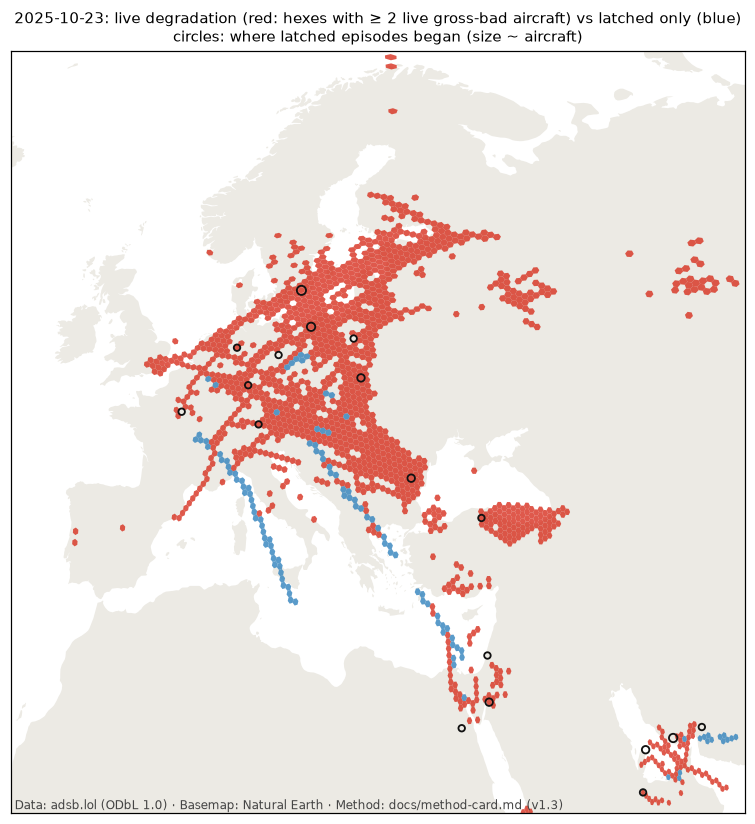
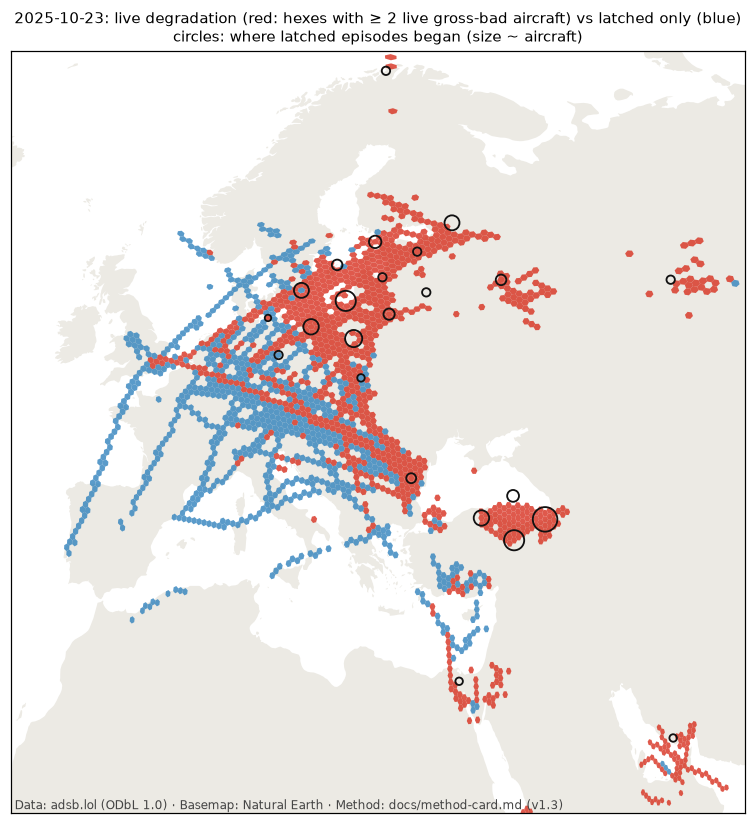
Validation: post-exposure tag (v1.4) results on all 20 days
- All 20 days now at v1.4 (12 Nov 2025 and 22 Sep 2026 reprocessed)
- Tag covers 41-55% of gross-bad aircraft-hexes over central Europe and
  50-75% over western Europe, 5-12% in Baltic and Black Sea hotspots;
  hotspot shares fall at most 1.8 points
- Nightly central-Europe bursts: 33 -> 26 events, smaller peaks, 6 quiet
  nights vs 2; only 38-47% of aircraft in the remaining bursts are tagged
- Type pattern holds over 17 days: A359 19.4x, A388 19.2x, B77W 4.7x
- Next: why the rest go untagged, like-for-like type comparison, fix the
  type table's top-80 denominator

diff --git a/docs/validation/latching_results.md b/docs/validation/latching_results.md
@@ -1,4 +1,4 @@
-# Latching tag (processor v1.3): generated results
+# Post-exposure tag (processor v1.4; v1.3 latching): generated results
 
 Generated by `tools/validate_latching.py`. Narrative: `phase1.md` (latching section).
 
@@ -6,85 +6,107 @@ Generated by `tools/validate_latching.py`. Narrative: `phase1.md` (latching sect
 
 | Day | Latched aircraft | Unjudged candidate cells | Central Europe (45–55N, 5–25E) | Western Europe (43–55N, 10W–5E) | Baltic (53.5–61N, 17–30E) | Black Sea (40.5–47.5N, 27–42E) | North America (25–55N, 125–65W) |
 |---|---|---|---|---|---|---|---|
-| 2025-10-09 | 39 | 131 | 5% (118/2320) | 10% (28/280) | 1% (11/1091) | 1% (11/1609) | 4% (20/473) |
-| 2025-10-10 | 50 | 129 | 2% (50/2243) | 10% (38/395) | 0% (0/907) | 1% (19/1360) | 9% (50/582) |
-| 2025-10-11 | 46 | 108 | 6% (140/2302) | 4% (19/456) | 2% (18/1129) | 1% (15/1536) | 13% (73/579) |
-| 2025-10-12 | 38 | 83 | 8% (155/2032) | 8% (34/411) | 1% (12/1011) | 1% (8/1362) | 0% (0/314) |
-| 2025-10-13 | 43 | 110 | 5% (110/2397) | 0% (0/222) | 2% (26/1250) | 0% (5/1460) | 16% (51/324) |
-| 2025-10-14 | 39 | 130 | 4% (79/2151) | 7% (12/177) | 0% (3/1137) | 0% (6/1467) | 7% (24/333) |
-| 2025-10-15 | 26 | 116 | 4% (58/1622) | 1% (3/264) | 1% (12/839) | 0% (1/1067) | 11% (59/529) |
-| 2025-10-16 | 30 | 129 | 6% (141/2253) | 6% (18/313) | 1% (14/1156) | 1% (8/1403) | 1% (9/892) |
-| 2025-10-17 | 46 | 187 | 10% (196/2050) | 6% (20/354) | 2% (24/1291) | 1% (10/1561) | 1% (11/989) |
-| 2025-10-18 | 50 | 101 | 3% (66/2405) | 3% (13/395) | 1% (21/1639) | 1% (8/1564) | 3% (14/464) |
-| 2025-10-19 | 47 | 93 | 4% (83/2250) | 5% (12/262) | 1% (11/1273) | 1% (10/1467) | 6% (27/478) |
-| 2025-10-20 | 37 | 105 | 6% (130/2279) | 2% (5/211) | 1% (11/1441) | 0% (0/1555) | 0% (0/383) |
-| 2025-10-21 | 31 | 103 | 6% (163/2640) | 8% (25/326) | 0% (2/1402) | 0% (5/1548) | 1% (13/873) |
-| 2025-10-22 | 53 | 189 | 6% (165/2638) | 1% (2/280) | 1% (14/1526) | 1% (9/1770) | 7% (60/841) |
-| 2025-10-23 | 46 | 120 | 5% (146/2914) | 1% (3/274) | 1% (19/1717) | 0% (4/1606) | 0% (0/852) |
-| 2025-10-24 | 42 | 192 | 2% (56/2333) | 9% (27/302) | 1% (17/1184) | 0% (1/1436) | 1% (5/723) |
-| 2025-10-25 | 51 | 178 | 8% (216/2555) | 9% (23/250) | 2% (19/1184) | 0% (7/1636) | 3% (17/539) |
+| 2025-10-09 | 240 | 709 | 49% (1142/2318) | 55% (153/280) | 10% (113/1116) | 6% (97/1625) | 0% (0/433) |
+| 2025-10-10 | 241 | 677 | 42% (943/2243) | 54% (212/395) | 6% (55/907) | 11% (144/1347) | 3% (18/545) |
+| 2025-10-11 | 250 | 684 | 50% (1089/2193) | 59% (243/411) | 10% (118/1165) | 7% (113/1537) | 0% (0/528) |
+| 2025-10-12 | 198 | 524 | 46% (922/1994) | 51% (193/382) | 10% (100/1033) | 6% (87/1356) | 10% (31/314) |
+| 2025-10-13 | 213 | 593 | 48% (1156/2391) | 62% (144/234) | 6% (78/1250) | 8% (110/1459) | 0% (0/324) |
+| 2025-10-14 | 222 | 493 | 45% (989/2192) | 50% (88/177) | 9% (105/1137) | 7% (111/1501) | 0% (0/300) |
+| 2025-10-15 | 164 | 494 | 41% (649/1594) | 64% (167/259) | 5% (42/836) | 6% (64/1083) | 16% (87/529) |
+| 2025-10-16 | 244 | 734 | 55% (1302/2361) | 73% (278/382) | 12% (149/1238) | 7% (105/1428) | 6% (53/942) |
+| 2025-10-17 | 246 | 624 | 49% (953/1930) | 65% (212/327) | 10% (129/1273) | 9% (133/1561) | 2% (16/961) |
+| 2025-10-18 | 244 | 864 | 48% (1123/2317) | 57% (223/390) | 12% (202/1652) | 6% (100/1553) | 0% (0/430) |
+| 2025-10-19 | 219 | 478 | 48% (1020/2128) | 72% (178/247) | 12% (144/1241) | 6% (82/1467) | 15% (66/442) |
+| 2025-10-20 | 239 | 690 | 51% (1165/2267) | 68% (134/196) | 11% (158/1441) | 6% (86/1561) | 0% (0/383) |
+| 2025-10-21 | 259 | 708 | 49% (1304/2638) | 63% (213/339) | 9% (121/1402) | 9% (143/1574) | 2% (20/837) |
+| 2025-10-22 | 324 | 835 | 42% (1060/2506) | 61% (170/280) | 7% (112/1526) | 6% (112/1772) | 12% (97/841) |
+| 2025-10-23 | 265 | 682 | 44% (1303/2955) | 75% (189/252) | 9% (162/1777) | 6% (93/1614) | 6% (51/852) |
+| 2025-10-24 | 254 | 784 | 50% (1158/2298) | 67% (199/299) | 11% (132/1159) | 7% (95/1436) | 1% (4/709) |
+| 2025-10-25 | 203 | 722 | 54% (1292/2411) | 54% (122/228) | 8% (94/1184) | 6% (95/1628) | 19% (95/513) |
 
 ## 2. Where latched episodes began (H3 res-2 regions, all days pooled)
 
 | Rank | Region centre | Country | Latched aircraft |
 |---|---|---|---|
-| 1 | 43.96, 27.0 | Bulgaria | 39 |
-| 2 | 42.8, 37.69 | sea / unknown | 37 |
-| 3 | 4.03, 101.95 | Malaysia | 33 |
-| 4 | 21.01, 87.24 | sea / unknown | 32 |
-| 5 | 56.28, 15.48 | Sweden | 27 |
-| 6 | 15.28, 96.57 | sea / unknown | 24 |
-| 7 | 55.59, 20.13 | sea / unknown | 19 |
-| 8 | 53.89, 16.49 | Poland | 17 |
-| 9 | 23.54, 89.0 | Bangladesh | 14 |
-| 10 | 26.15, 51.6 | sea / unknown | 14 |
-| 11 | 29.27, 35.18 | Saudi Arabia | 13 |
-| 12 | 23.14, 59.15 | sea / unknown | 13 |
-| 13 | 26.92, 54.49 | Iran | 13 |
-| 14 | 50.06, 9.89 | Germany | 12 |
-| 15 | 52.04, 13.08 | Germany | 12 |
-| 16 | 39.89, 37.8 | Turkey | 12 |
-| 17 | 20.93, 90.47 | sea / unknown | 11 |
-| 18 | 50.47, 5.7 | Belgium | 11 |
-| 19 | 23.35, 51.33 | Saudi Arabia | 10 |
-| 20 | 25.04, 56.87 | sea / unknown | 10 |
+| 1 | 41.26, 41.05 | sea / unknown | 681 |
+| 2 | 39.89, 37.8 | Turkey | 493 |
+| 3 | 55.59, 20.13 | sea / unknown | 293 |
+| 4 | 56.97, 36.43 | Russia | 283 |
+| 5 | 42.8, 37.69 | sea / unknown | 266 |
+| 6 | 60.71, 31.28 | Russia | 174 |
+| 7 | 43.96, 27.0 | Bulgaria | 135 |
+| 8 | 59.46, 23.22 | sea / unknown | 128 |
+| 9 | 41.35, 34.37 | Turkey | 127 |
+| 10 | 54.72, 24.68 | Lithuania | 93 |
+| 11 | 53.89, 16.49 | Poland | 89 |
+| 12 | 53.12, 20.96 | Poland | 87 |
+| 13 | 56.28, 15.48 | Sweden | 68 |
+| 14 | 57.95, 19.23 | Sweden | 58 |
+| 15 | 50.54, 21.73 | Poland | 57 |
+| 16 | 57.14, 23.98 | sea / unknown | 46 |
+| 17 | 15.28, 96.57 | sea / unknown | 43 |
+| 18 | 15.02, 99.78 | Thailand | 43 |
+| 19 | 29.27, 35.18 | Saudi Arabia | 41 |
+| 20 | 35.09, -109.94 | United States of America | 40 |
 
-Onsets inside the Phase 1 hotspot sub-regions: 66 of 687 (10%).
+Onsets inside the Phase 1 hotspot sub-regions: 1303 of 3835 (34%).
 
-## 3. Burst events over central Europe starting 01–06Z: v1.2 (raw) vs v1.3 (live)
+## 2b. Aircraft types: share of post-exposure aircraft vs share of all aircraft (all days pooled)
 
-| Day | v1.2 events | v1.3 events | v1.2 largest peak | v1.3 largest peak |
+4025 post-exposure aircraft-days; 650734 aircraft-days in total (top 80 types per day counted).
+
+| Type | Post-exposure | Share | All aircraft | Share | Over-representation |
+|---|---|---|---|---|---|
+| A359 | 1002 | 24.9% | 8355 | 1.28% | 19.4x |
+| B738 | 453 | 11.3% | 55273 | 8.49% | 1.3x |
+| A321 | 374 | 9.3% | 20115 | 3.09% | 3.0x |
+| B77W | 320 | 8.0% | 11000 | 1.69% | 4.7x |
+| A320 | 288 | 7.2% | 41816 | 6.43% | 1.1x |
+| A21N | 205 | 5.1% | 23855 | 3.67% | 1.4x |
+| A388 | 202 | 5.0% | 1699 | 0.26% | 19.2x |
+| A333 | 182 | 4.5% | 8120 | 1.25% | 3.6x |
+| A20N | 131 | 3.3% | 24326 | 3.74% | 0.9x |
+| B77L | 121 | 3.0% | 5161 | 0.79% | 3.8x |
+| B38M | 94 | 2.3% | 25635 | 3.94% | 0.6x |
+| A332 | 79 | 2.0% | 4592 | 0.71% | 2.8x |
+| A35K | 78 | 1.9% | 0 | 0.00% | infx |
+| B789 | 63 | 1.6% | 9963 | 1.53% | 1.0x |
+| B763 | 45 | 1.1% | 8274 | 1.27% | 0.9x |
+
+## 3. Burst events over central Europe starting 01–06Z: v1.2 (raw) vs current (live)
+
+| Day | v1.2 events | current events | v1.2 largest peak | current largest peak |
 |---|---|---|---|---|
-| 2025-10-09 | 2 | 1 | 18 | 18 |
-| 2025-10-10 | 1 | 1 | 27 | 27 |
-| 2025-10-11 | 2 | 2 | 21 | 21 |
-| 2025-10-12 | 1 | 1 | 19 | 19 |
-| 2025-10-13 | 1 | 1 | 21 | 21 |
+| 2025-10-09 | 2 | 3 | 18 | 12 |
+| 2025-10-10 | 1 | 3 | 27 | 17 |
+| 2025-10-11 | 2 | 3 | 21 | 11 |
+| 2025-10-12 | 1 | 3 | 19 | 11 |
+| 2025-10-13 | 1 | 0 | 21 | – |
 | 2025-10-14 | 0 | 0 | – | – |
-| 2025-10-15 | 0 | 0 | – | – |
-| 2025-10-16 | 1 | 1 | 22 | 22 |
-| 2025-10-17 | 2 | 2 | 11 | 11 |
-| 2025-10-18 | 5 | 5 | 13 | 13 |
-| 2025-10-19 | 1 | 1 | 12 | 12 |
-| 2025-10-20 | 2 | 1 | 10 | 10 |
-| 2025-10-21 | 2 | 2 | 21 | 21 |
-| 2025-10-22 | 4 | 3 | 21 | 21 |
-| 2025-10-23 | 5 | 5 | 25 | 25 |
-| 2025-10-24 | 3 | 2 | 19 | 9 |
-| 2025-10-25 | 1 | 2 | 16 | 19 |
-| **Total** | **33** | **30** | | |
+| 2025-10-15 | 0 | 2 | – | 8 |
+| 2025-10-16 | 1 | 3 | 22 | 16 |
+| 2025-10-17 | 2 | 1 | 11 | 10 |
+| 2025-10-18 | 5 | 0 | 13 | – |
+| 2025-10-19 | 1 | 0 | 12 | – |
+| 2025-10-20 | 2 | 2 | 10 | 10 |
+| 2025-10-21 | 2 | 1 | 21 | 10 |
+| 2025-10-22 | 4 | 4 | 21 | 12 |
+| 2025-10-23 | 5 | 1 | 25 | 10 |
+| 2025-10-24 | 3 | 0 | 19 | – |
+| 2025-10-25 | 1 | 0 | 16 | – |
+| **Total** | **33** | **26** | | |
 
 ## 4. Hotspot shares, raw vs live (share of aircraft-hexes worse than 93 m)
 
 | Sub-region | 2025-10-23 raw → live | 2025-10-24 raw → live | 2025-10-25 raw → live |
 |---|---|---|---|
-| Kaliningrad and approaches | 50.3 → 50.3 | 25.2 → 25.2 | 12.7 → 12.7 |
-| Gulf of Finland / Estonia–Russia border | 39.9 → 39.9 | 29.7 → 29.5 | 34.6 → 34.3 |
-| Southern Black Sea offshore Turkey | 42.8 → 42.8 | 37.0 → 37.0 | 43.8 → 43.8 |
-| Western Black Sea coast | 6.6 → 6.6 | 8.3 → 8.3 | 7.0 → 7.0 |
-| Caucasus | 24.4 → 24.3 | 13.8 → 13.8 | 20.5 → 20.1 |
-| Cyprus–Levant | 0.4 → 0.4 | 0.5 → 0.5 | 0.6 → 0.6 |
-| High latitude excl. Baltic/Russia | 0.2 → 0.2 | 0.0 → 0.0 | 1.7 → 1.7 |
+| Kaliningrad and approaches | 50.5 → 49.1 | 25.2 → 25.0 | 12.7 → 11.5 |
+| Gulf of Finland / Estonia–Russia border | 40.0 → 38.7 | 29.6 → 28.0 | 34.6 → 33.8 |
+| Southern Black Sea offshore Turkey | 42.8 → 42.7 | 37.0 → 35.8 | 43.8 → 43.6 |
+| Western Black Sea coast | 6.6 → 5.0 | 8.3 → 7.1 | 7.0 → 5.2 |
+| Caucasus | 24.4 → 23.1 | 13.8 → 13.2 | 20.4 → 19.5 |
+| Cyprus–Levant | 0.4 → 0.2 | 0.5 → 0.4 | 0.6 → 0.6 |
+| High latitude excl. Baltic/Russia | 0.2 → 0.1 | 0.0 → 0.0 | 1.7 → 1.2 |
 
 ## 5. Map, 2025-10-23
 

diff --git a/docs/validation/phase1.md b/docs/validation/phase1.md
@@ -185,3 +185,62 @@ Then:
 
 1. Re-run the 20 days and check that the nightly bursts collapse on live counts.
 2. Report post-exposure degradation by aircraft type as its own product. Which types carry interference effects downstream, and for how long, is useful to operators.
+
+---
+
+# Post-exposure tag: processor v1.4 (21 Oct 2026)
+
+**Generated tables and map:** `latching_results.md` (now v1.4). **Data:** the same 20 days, all at v1.4. The last two (12 Nov 2025 and 22 Sep 2026) were reprocessed on 21 Oct.
+
+## Bottom line
+
+- **The post-exposure tag finds far more downstream degradation than the latch did:**
+  - It tags **164–324 aircraft a day**, against 26–53 under v1.3.
+  - Over central Europe it covers **41–55% of gross-bad aircraft-hexes**, and over western Europe 50–75%.
+  - Inside real hotspots the share stays low: Baltic 5–12%, Black Sea 6–11%. That is the expected split: away from jammers, much of what looks bad was carried in from elsewhere.
+- **Hotspots are untouched.** Shares fall by at most 1.8 points (raw vs live, 23–25 Oct).
+- **The nightly central-Europe bursts shrink but don't disappear:**
+  - Events went from 33 (v1.2) to 30 (v1.3) to **26** (v1.4).
+  - The largest burst on most nights got smaller: 27 to 17 aircraft on 10 Oct, 25 to 10 on 23 Oct. No burst above 17 aircraft remains.
+  - Six nights now have no burst, against two before.
+  - On six nights the count rose, probably because removing tagged aircraft split one large event into smaller ones that still clear the threshold.
+- **The tag catches only 38–47% of the aircraft in the bursts that remain:**
+  - 21 Oct, 05:03–05:09Z, near Berlin: 6 of 16 aircraft tagged.
+  - 23 Oct, 04:16–04:26Z, over north-west Germany: 7 of 15 tagged.
+  - In both, peers were 98–99% healthy and A350-900s made up 38–47% of the degraded aircraft, against 2–4% of traffic.
+  - First degradations were over the eastern Black Sea and Georgian coast (21 Oct) and near St Petersburg and Lake Ladoga (23 Oct). On 21 Oct, 3 aircraft first degraded over Pomerania, roughly 220–290 km from the burst. That is inside the tag's 300 km radius, so they count as local.
+- **The type pattern holds across all 17 October days,** not just the three traced nights. Of 4,025 post-exposure aircraft-days:
+
+| Type | Share of post-exposure | Share of all traffic | Over-representation |
+|---|---|---|---|
+| A350-900 (A359) | 24.9% | 1.28% | 19.4× |
+| A380 (A388) | 5.0% | 0.26% | 19.2× |
+| 777-300ER (B77W) | 8.0% | 1.69% | 4.7× |
+| 777-200LR/F (B77L) | 3.0% | 0.79% | 3.8× |
+| A330-300 (A333) | 4.5% | 1.25% | 3.6× |
+| A321 | 9.3% | 3.09% | 3.0× |
+| 737-800, A320, A320neo, 737 MAX 8 | — | — | 0.6–1.3× |
+
+**Reading (hypothesis, not verified):**
+- Comparing against all traffic mixes route with avionics. Long-haul widebodies fly the Gulf/Asia–Europe corridors over Turkey and the Black Sea, while most narrowbodies don't.
+- 777-300ERs fly the same corridors as A350s, yet they're over-represented 4.7×, not 19×. So aircraft type looks like it matters beyond route.
+- The A321's 3.0× is the narrowbody exception. It isn't explained yet; it may reflect which carriers fly it on medium-haul routes near the hotspots.
+- Airbus and EASA guidance on post-spoofing GPS behaviour still hasn't been checked.
+
+## Verdicts
+
+| # | Check | Result | Verdict |
+|---|---|---|---|
+| 24 | Post-exposure tag does no harm inside hotspots | Raw vs live shares fall at most 1.8 points on 23–25 Oct | **Pass** |
+| 25 | Where exposure episodes begin | 3,835 onsets; 34% inside the Phase 1 hotspot sub-regions (v1.3: 10%). The top H3 res-2 regions are the eastern Black Sea / Turkish–Georgian coast (681), east-central Turkey (493), offshore Kaliningrad (293), western Russia near Tver (283), the central Black Sea (266) and Lake Ladoga, north-east of St Petersburg (174) | **Consistent** with known interference regions |
+| 26 | Do post-exposure aircraft explain the nightly central-Europe bursts? | 33 → 26 events, smaller peaks, 6 quiet nights vs 2; 38–47% of aircraft in the remaining bursts tagged | **Partly** |
+| 27 | Type concentration, all days | A359 19.4×, A388 19.2×, B77W 4.7×. Narrowbodies are about 1×, except the A321 at 3.0× | **Found** |
+
+## Next
+
+1. **Why the rest of the burst aircraft go untagged.** Two possible causes, not yet checked:
+   - The exposure point fails the peer test where overnight traffic is sparse. A fix would confirm it against the hex's daily baseline instead of same-hour peers.
+   - The aircraft first degraded within 300 km of the burst, over the southern Baltic.
+2. **A like-for-like type comparison:** only aircraft that crossed a hotspot, so route exposure is held constant.
+3. **Fix the type table's denominator.** It counts only the top 80 types per day, so A350-1000 (A35K) shows zero traffic and an infinite ratio.
+4. Check Airbus and EASA guidance (still open).
